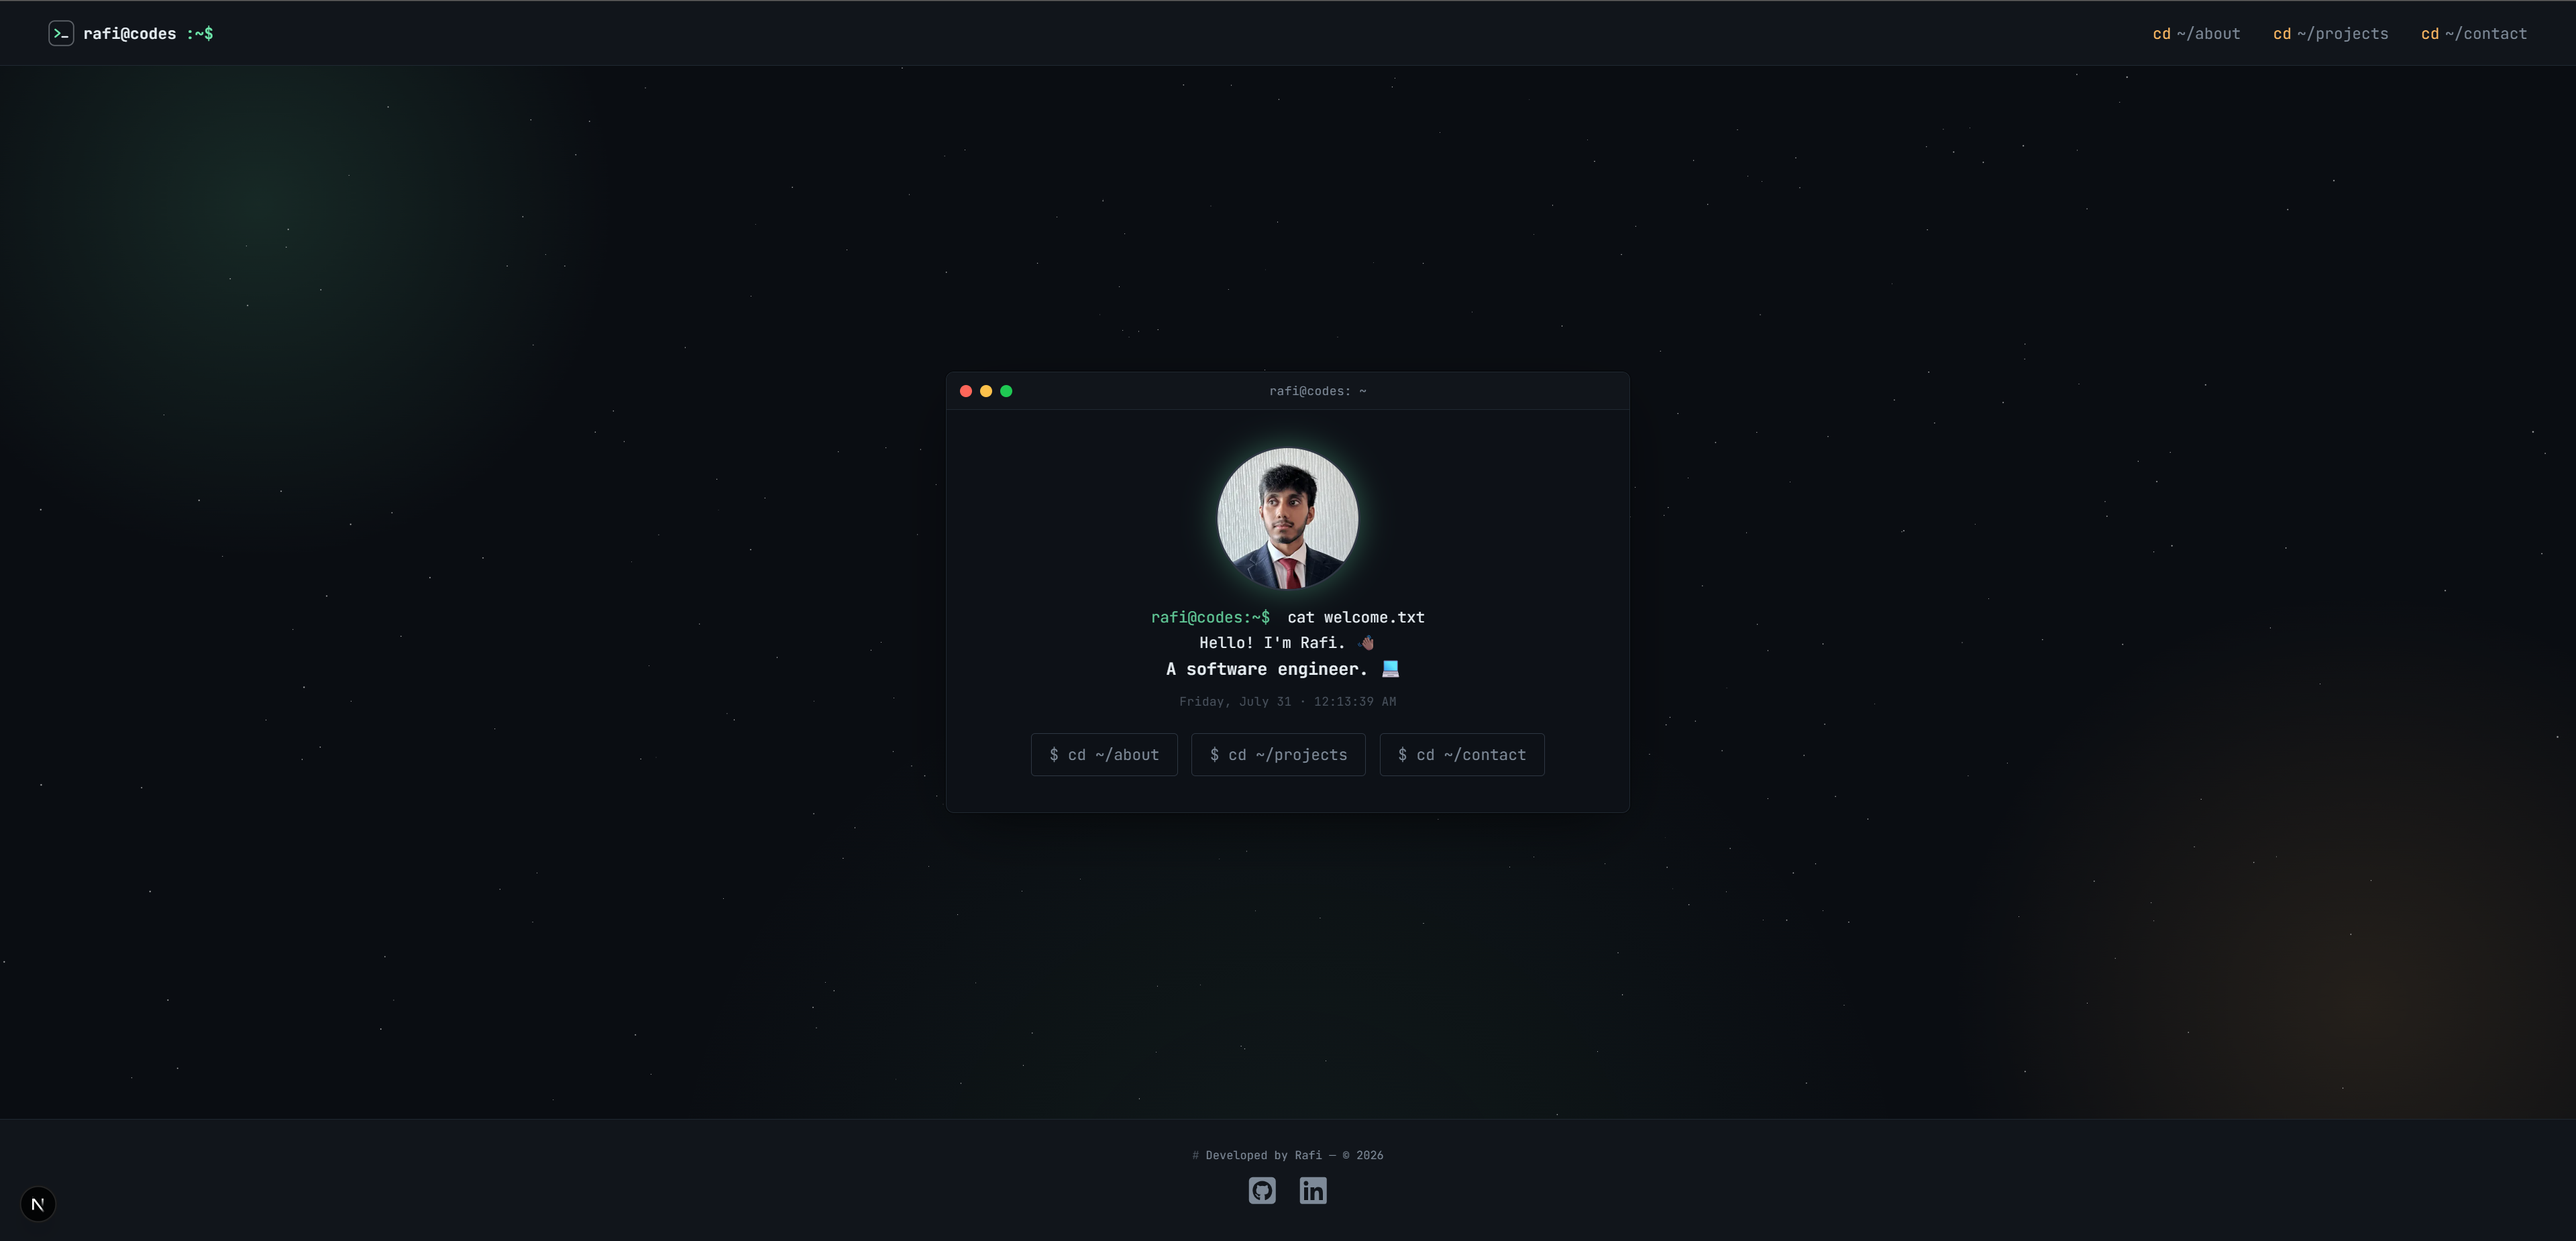
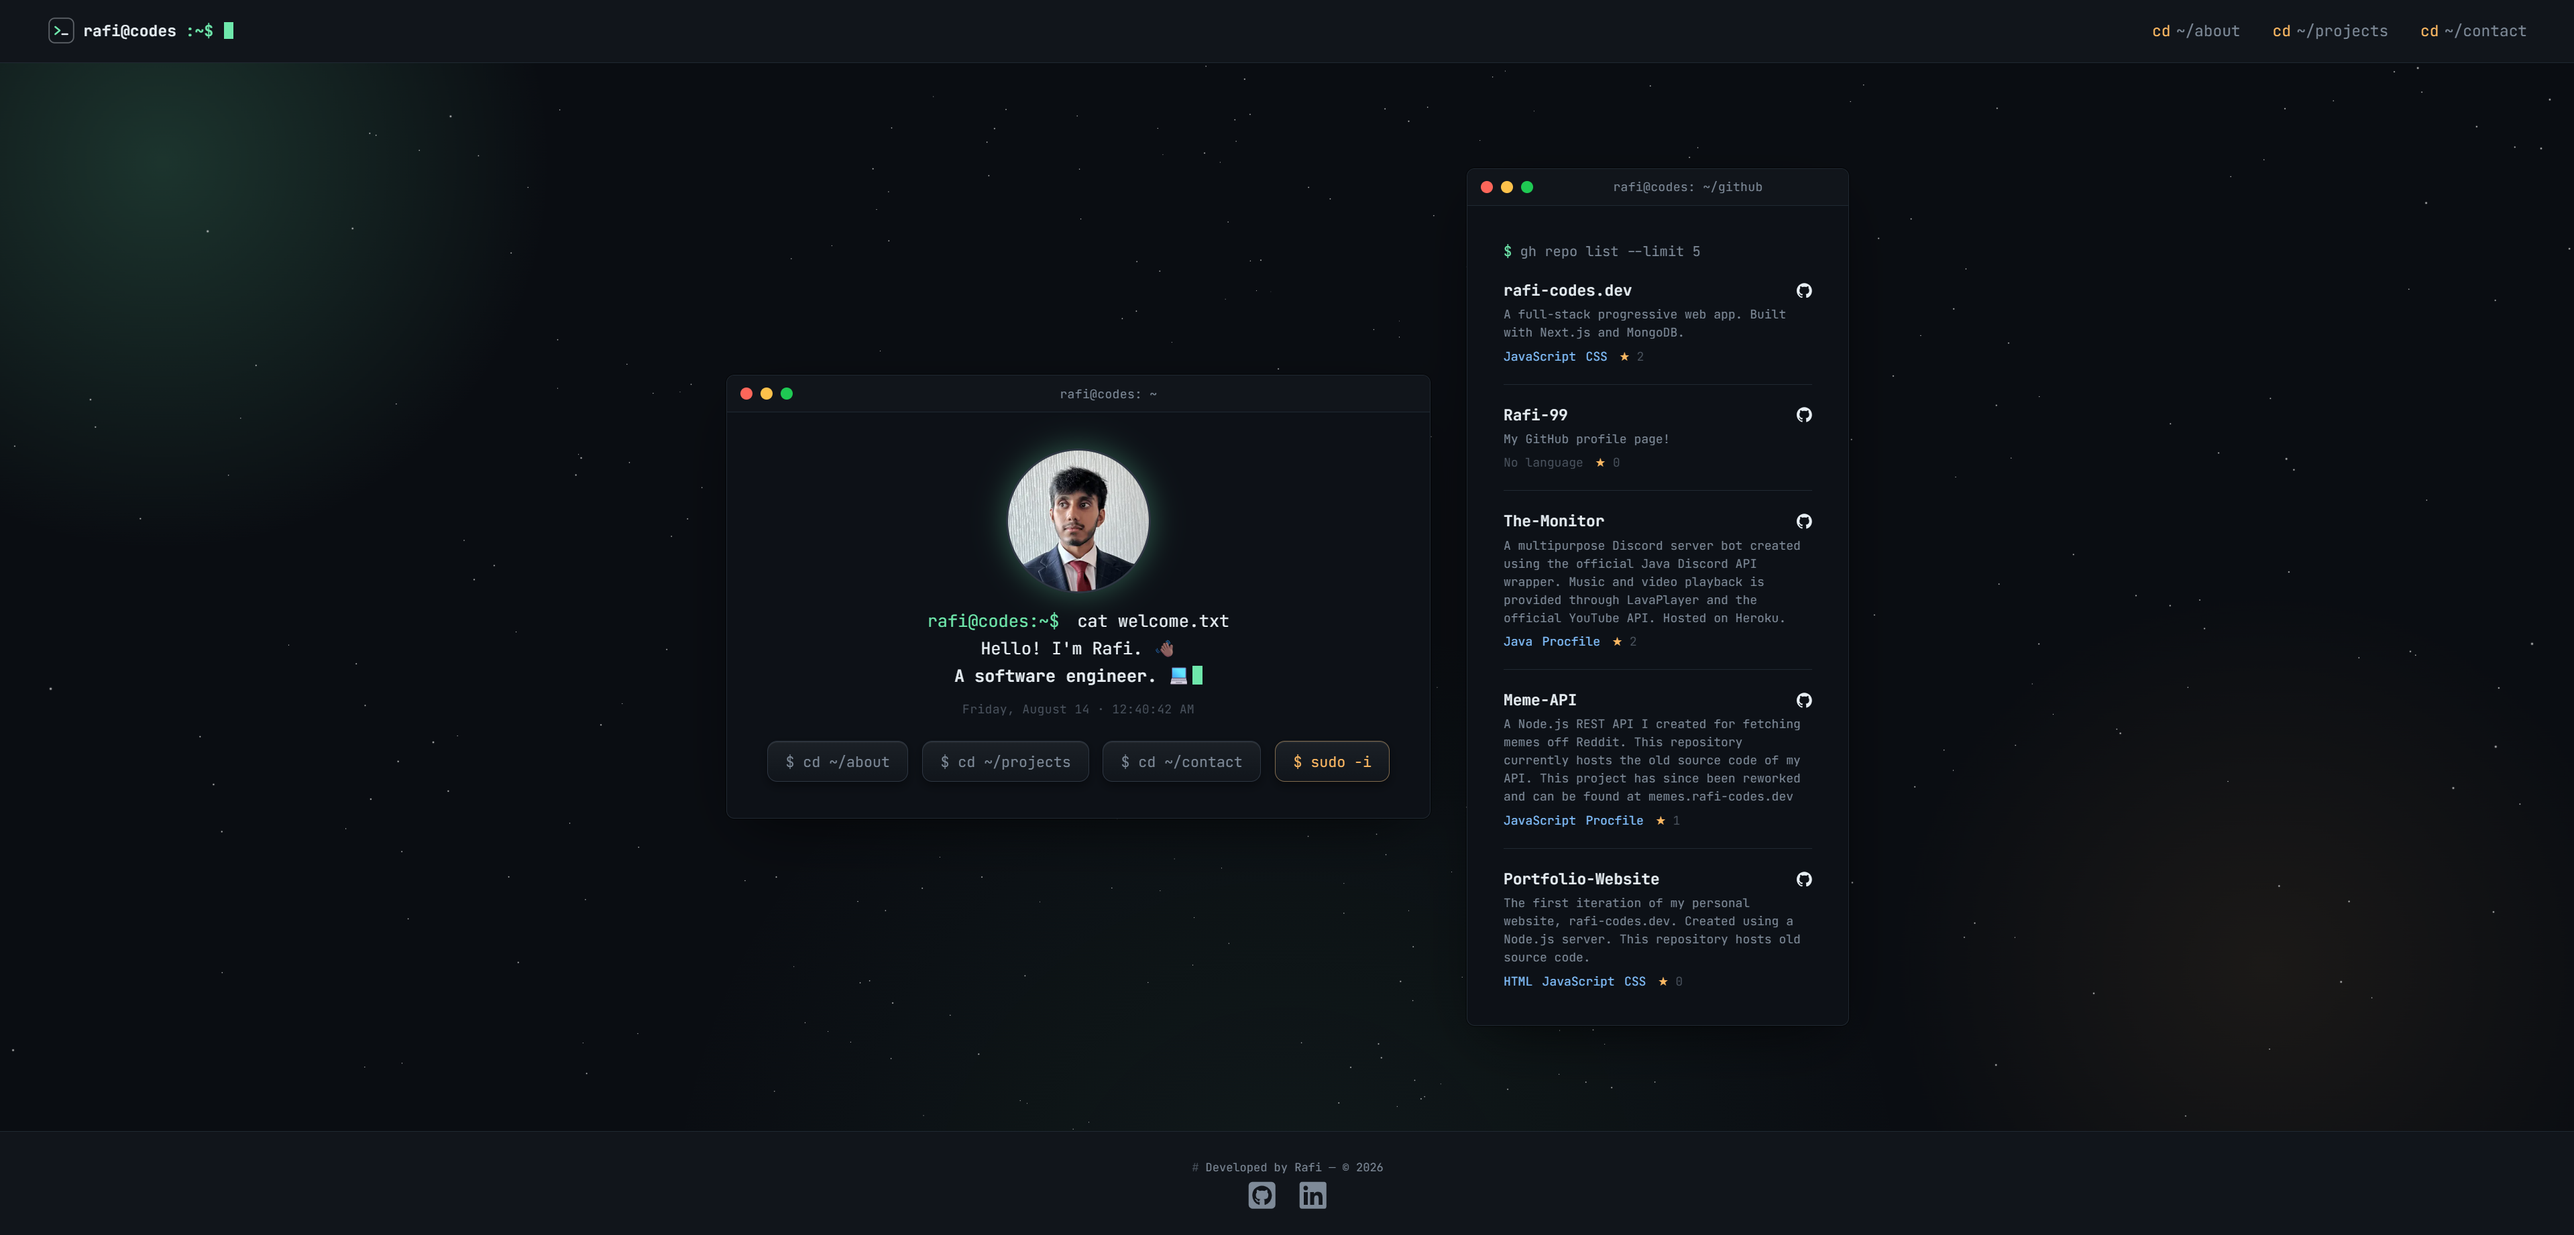
Chore: Updated README.

diff --git a/README.md b/README.md
@@ -39,11 +39,15 @@ src/
 ```
 
 ## Features
-- 💬 **Contact Form** — Sends emails via Gmail OAuth2, protected with reCAPTCHA Enterprise.
-- 📈 **Live Interactive Environment** — Home page displays the current date & time inside an interactive terminal.
-- 🎨 **3D Ambient Background** — Developed with React Three Fiber.
-- 📱 **PWA** — Install as an app and experience mobile first design.
-- 🔍 **SEO** — Sitemap, robots, manifest, and Open Graph metadata.
+- 🖥 **Interactive Terminal** — A real shell on the home page, not just a div: routes the site via `cd`, keeps command history (↑/↓), autocompletes, and has Easter eggs for the curious.
+- 🐙 **GitHub Widget** — Live stats for the most recent repositories, with each repository's languages broken down and ranked by actual usage percentage.
+- 📊 **Live Résumé Data** — Skills and work experience are fetched live from MongoDB and rendered as real syntax-highlighted `skills.json` and job description cards.
+- 💬 **Contact Form** — Sends email via Gmail OAuth2 + Nodemailer, protected by reCAPTCHA Enterprise. Monitored with a scheduled cron health check.
+- 🎨 **3D Ambient Background** — A slow-drifting starfield built with React Three Fiber, layered under every page and tuned to respect `prefers-reduced-motion`.
+- 📐 **Fluid, Container-Query-Driven Design** — No hardcoded breakpoints: implemented a mobile-first approach that reacts to the container's real width, not the viewport.
+- 🖼 **Dynamic Open Graph Images** — Social preview cards are generated on the fly per page via `next/og`, not static screenshots.
+- 📱 **Installable PWA** — Full offline fallback and custom app icons. Installable on any device. Allows users to experience the website as an app.
+- 🔍 **Complete SEO** — Sitemap, robots, manifest, and per-page Open Graph/Twitter metadata. All generated through Next's Metadata API.
 
 ## Coming Soon
 - Stay tuned for more features! This README will be updated with every new feature release.
